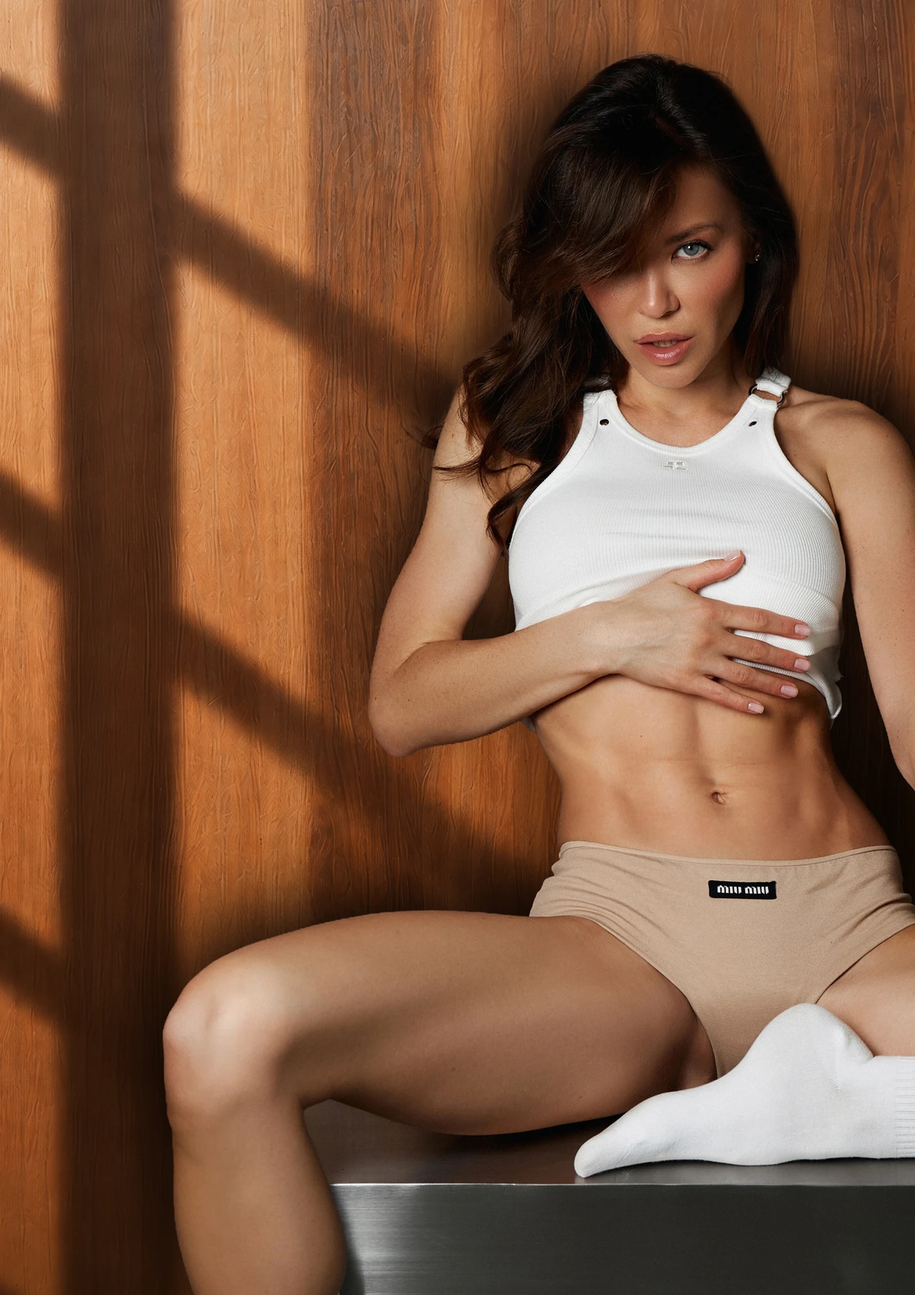
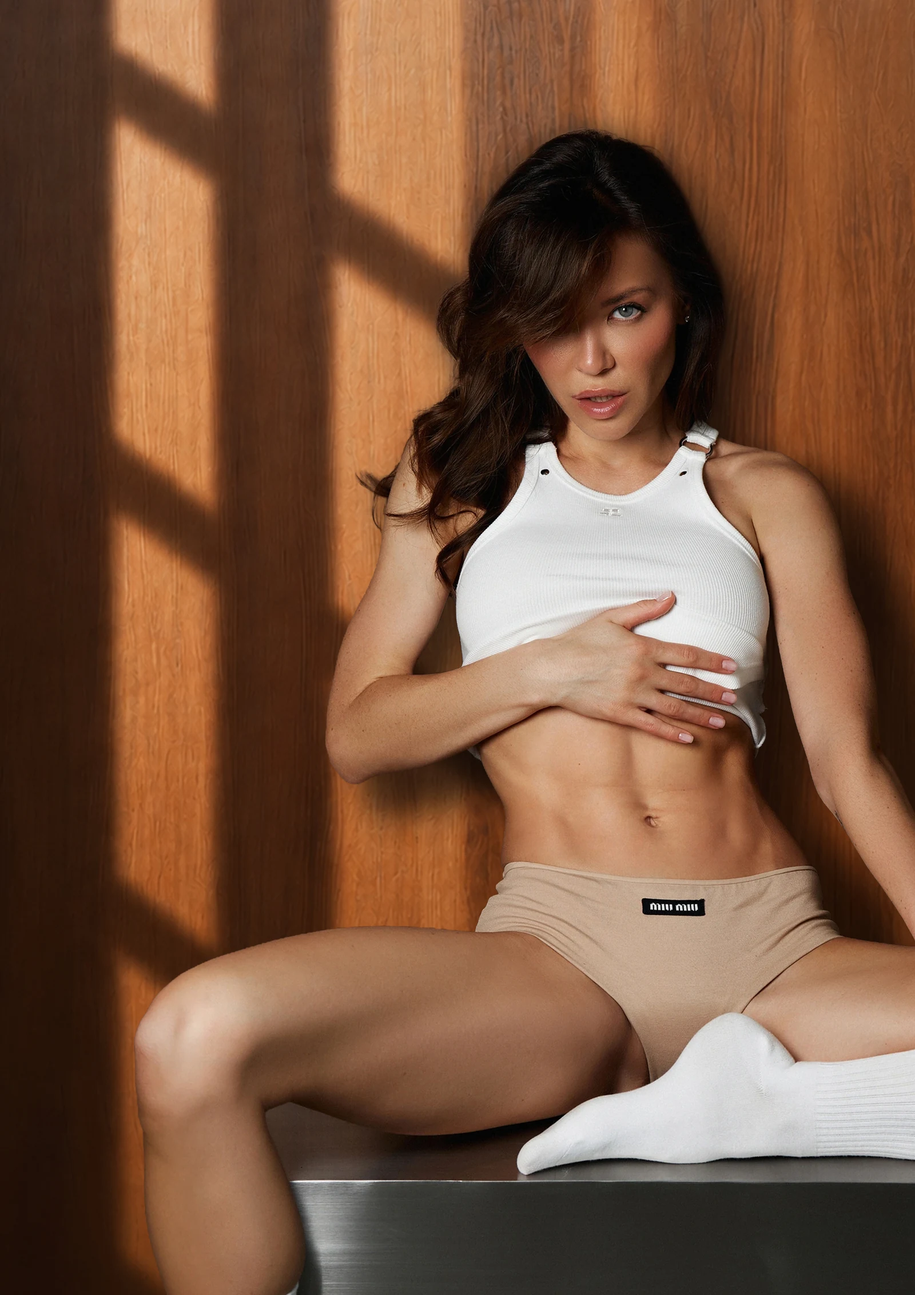
Halve desktop topbar-to-headline gap, refresh mobile photo, add bottom gradient
- Cut the desktop gap between the topbar and the eyebrow/headline in
  half by reducing the hero-layout top padding.
- Swap in the latest mobile hero photo upload.
- Add back a mobile-only darkening overlay, but as a top-to-bottom
  gradient (transparent near the top, darkening toward the bottom)
  instead of a flat tint, per feedback.

Claude-Session: https://claude.ai/code/session_01Gqp4hQjTvhLsd1JRyaJWz5

diff --git a/style.css b/style.css
@@ -321,6 +321,12 @@ body:has(#mobileMenuOverlay.visible) .topbar.at-hero .topbar-link{ color:var(--i
   background-size:cover;
   background-position:top center;
 }
+.hero-bg-photo::after{
+  content:'';
+  position:absolute;
+  inset:0;
+  background:linear-gradient(180deg, rgba(20,15,12,0) 0%, rgba(20,15,12,0.12) 35%, rgba(20,15,12,0.55) 100%);
+}
 
 .hero-note{
   position:absolute;
@@ -1033,7 +1039,7 @@ body:has(#mobileMenuOverlay.visible) .topbar.at-hero .topbar-link{ color:var(--i
     z-index:1;
     display:block;
     width:100%;
-    padding:200px 60px 90px 100px;
+    padding:132px 60px 90px 100px;
   }
   .hero-inner{ margin:0; padding:0; max-width:520px; }
   .hero-inner .btn-lg{ padding:18px 34px; font-size:15.5px; }
